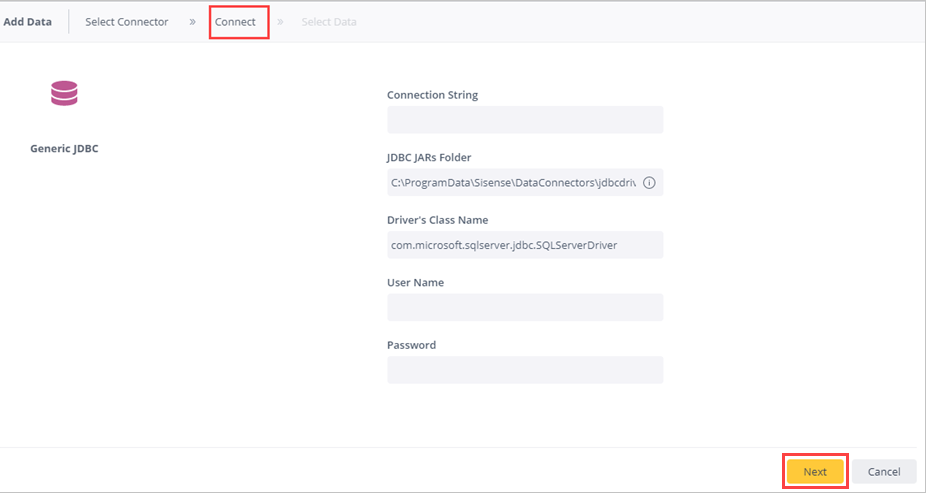
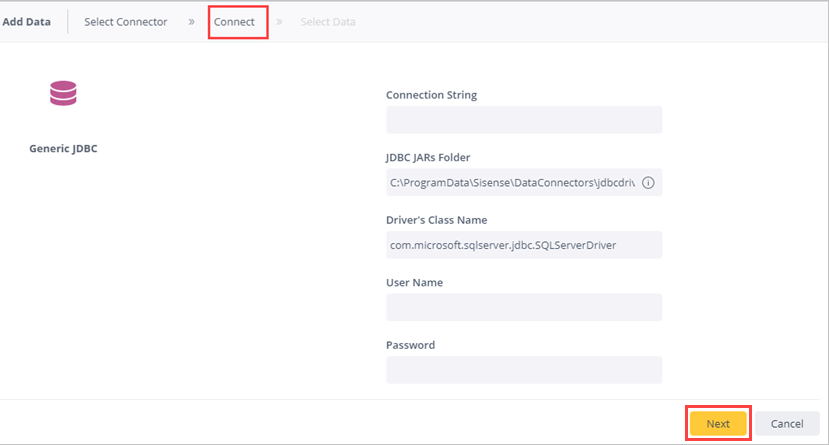
Additional sisense png files and text changes

diff --git a/data-explorer/sisense.md b/data-explorer/sisense.md
@@ -74,24 +74,44 @@ You need the following to complete this article:
 
 1. In the **Select Data** tab, search **Select Database** to select the relevant database to which you have permissions. In this example, select *test1*.
 
-    ![select-database](media/sisense/select-database.png)
+    ![select database](media/sisense/select-database.png)
 
 1. In *test* (database name) pane:
-    1. Select the table name to preview the table to see the table column names. 
+    1. Select the table name to preview the table and see the table column names. You can remove unnecessary columns.
     1. Select the check box of the relevant table to select that table. 
     1. Select **Done**.
 
-    
+    ![select table](media/sisense/select-table-see-columns.png)    
 
-1. In left-hand pane, click on table name to see table column names. You can remove unnecessary columns.
-1. Click **Build** to build your dataset. The build window opens. Click **Build** again. Wait until build process is complete and **Build Succeeded**.
-1. You can start building dashboards on top of this dataset.(analytics tab)
-1. In Analytics tab, select **+** > **New Dashboard**. Pick a Dashboard and select **Create**.
-1. Storm Events Dashboard under **New Widget**, select **+select data** to create a new widget. 
-1. **+ Add More Data** add additional columns to your graph. In this graph, have the following columns depicted.
-1. Select **+ Widget** to create another widget.
-1. You can drag and drop widgets to arrange your dashboards.
-1.   
+1. Select **Build** to build your dataset. 
+
+    * In the **Build** window, select **Build**.
+
+    ![Build window](media/sisense/build-window.png)
+
+1. Wait until build process is complete and **Build Succeeded**.
+
+    ![Build succeeded](media/sisense/build-succeeded.png)
+
+1. In **Analytics** tab, select **+** > **New Dashboard** to start building dashboards on top of this dataset.
+
+    ![New dashboard](media/sisense/new-dashboard.png)
+
+1. Pick a Dashboard and select **Create**. 
+
+    ![Create dashboard](media/sisense/create-dashboard.png)
+
+1. In **Storm Events** Dashboard under **New Widget**, select **+ Select Data** to create a new widget. 
+
+    ![Storm Event dashboard add widgets](media/sisense/storm-dashboard-add-widget.png)
+
+1. **+ Add More Data** to add additional columns to your graph. 
+
+    ![StormEvents dashboard add fields](media/sisense/storm-dashboard-add-field.png)    
+
+1. Select **+ Widget** to create another widget. Drag and drop widgets to rearrange your dashboard.
+
+    ![Storm dashboard](media/sisense/final-dashboard.PNG)
 
 ## Next steps
 
